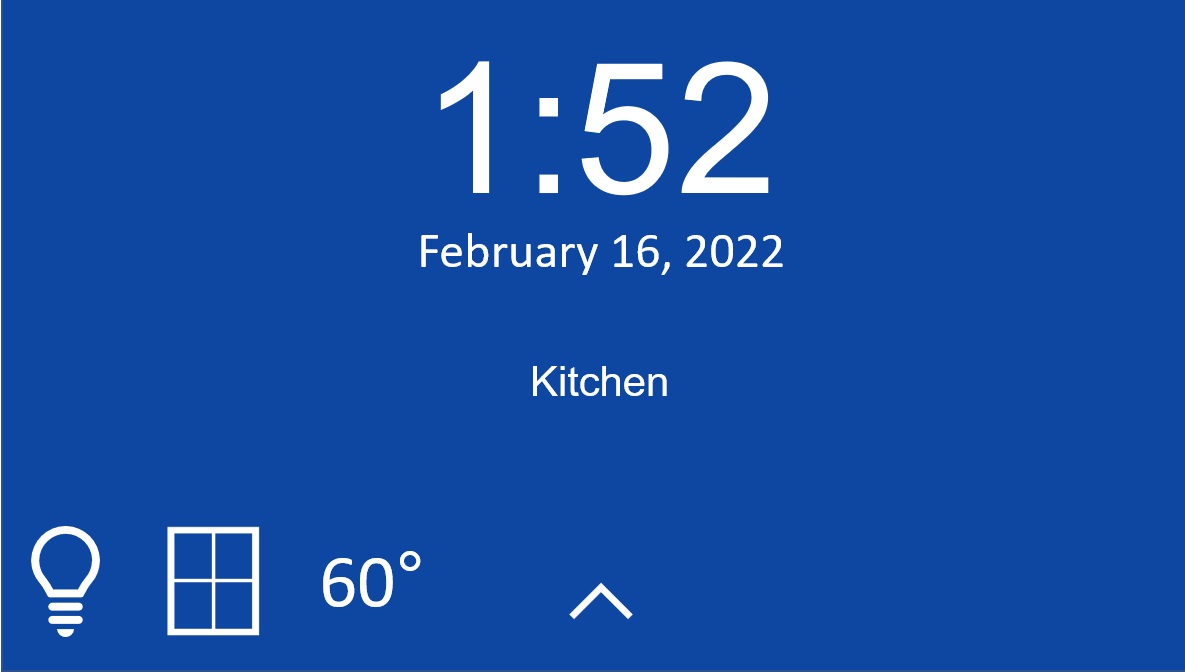
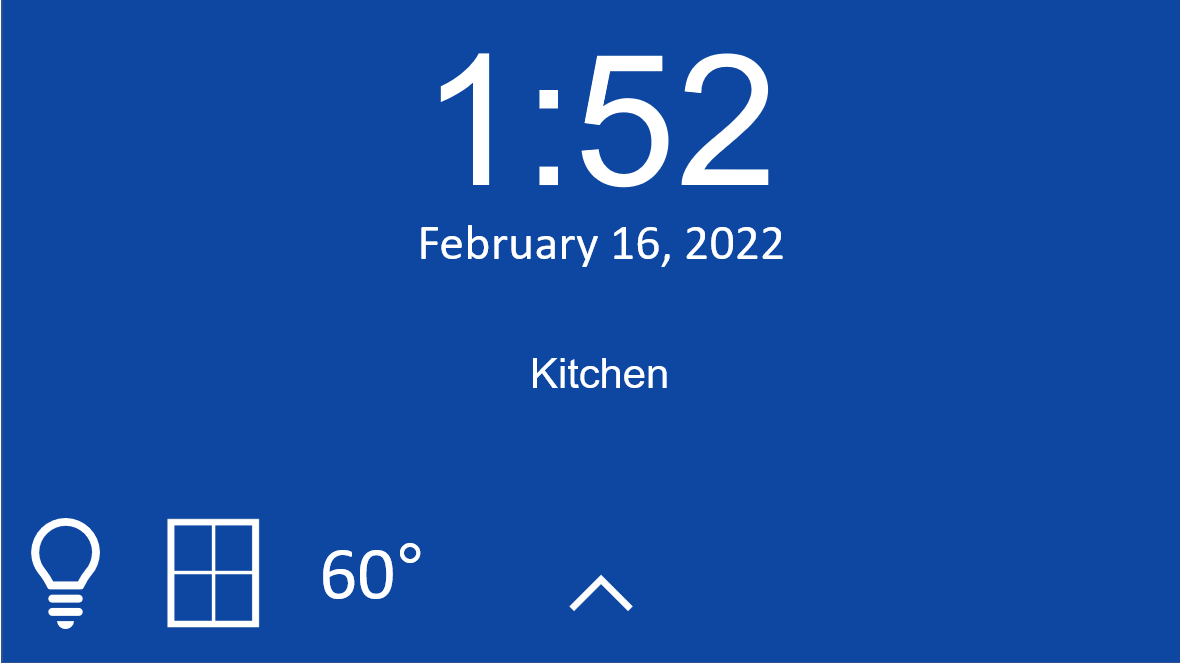
Final Release #2

diff --git a/app/view3/view3.html b/app/view3/view3.html
@@ -1,65 +1,90 @@
 
 <body>
+<div class="height-fix"></div>
 
-<h1>Human Computer Interaction Prototypes</h2>
-<p>Note: These were made before I learned Figma. By the time summer starts I will have learned Figma.These prototypes are made in powerpoint.</p>
+<h1>High Fidelity Human Computer Interaction Prototypes</h2>
+<p>Note: These were made before I learned Figma. By the time summer starts I will have learned Figma. These prototypes are made in powerpoint.</p>
 <h2> Smart Home System</h2>
 <div class = "gallery-items">
-    <div class="responsive">
+    <div class="responsive-2">
         <div class="gallery">
-            <a target="_blank" href="Images\Prototypes\SmartHome RestingScreen.png">
-                <img src="Images\Prototypes\SmartHome RestingScreen.png" alt="Cinque Terre" width="600" height="400">
+            <a target="_blank" href="Images\Prototypes\SmartHome RestingScreen-2.png">
+                <img src="Images\Prototypes\SmartHome RestingScreen-2.png" alt="Cinque Terre" width="600" height="400">
             </a>
             <div class="desc">Resting Screen</div>
         </div>
     </div>
-    <div class="responsive">
+    <div class="responsive-2">
         <div class="gallery">
             <a target="_blank" href="Images\Prototypes\SmartHome HomeScreen.png">
                 <img src="Images\Prototypes\SmartHome HomeScreen.png" alt="Cinque Terre" width="600" height="400">
             </a>
             <div class="desc">Home Screen</div>
         </div>
-    </div>    <div class="responsive">
+    </div>   
+    <div class="responsive-2">
         <div class="gallery">
             <a target="_blank" href="Images\Prototypes\SmartHome EditScreen.png">
                 <img src="Images\Prototypes\SmartHome EditScreen.png" alt="Cinque Terre" width="600" height="400">
             </a>
             <div class="desc">Edit Screen</div>
         </div>
-    </div>    <div class="responsive">
+        
+    </div> 
+    <div class="responsive-2">
         <div class="gallery">
-            <a target="_blank" href="Images\Prototypes\SmartHome RestingScreen.png">
-                <img src="Images\Prototypes\SmartHome RestingScreen.png" alt="Cinque Terre" width="600" height="400">
+            <a target="_blank" href="Images\Prototypes\Options-2.png">
+                <img src="Images\Prototypes\Options-2.png" alt="Cinque Terre" width="600" height="400">
             </a>
-            <div class="desc">Resting Screen</div>
+            <div class="desc">Home Settings and Mode Menu</div>
         </div>
-    </div>    <div class="responsive">
+    </div>
+   
+    <div class="responsive-2">
         <div class="gallery">
             <a target="_blank" href="Images\Prototypes\SmartHome RoutinesAll.png">
                 <img src="Images\Prototypes\SmartHome RoutinesAll.png" alt="Cinque Terre" width="600" height="400">
             </a>
             <div class="desc">View Routines on a Calender</div>
         </div>
-    </div>    <div class="responsive">
+    </div> 
+
+    <div class="responsive-2">
         <div class="gallery">
             <a target="_blank" href="Images\Prototypes\SmartHome AddRoutines.png">
                 <img src="Images\Prototypes\SmartHome AddRoutines.png" alt="Cinque Terre" width="600" height="400">
             </a>
             <div class="desc">Add/Edit Routines</div>
         </div>
-    </div>    <div class="responsive">
+    </div>    
+
+
+
+    <div class="responsive-2">
         <div class="gallery">
-            <a target="_blank" href="Images\Prototypes\SmartHome RestingScreen.png">
-                <img src="Images\Prototypes\SmartHome RestingScreen.png" alt="Cinque Terre" width="600" height="400">
+            <a target="_blank" href="Images\Prototypes\SmartHome KitchenRoutines.png">
+                <img src="Images\Prototypes\SmartHome KitchenRoutines.png" alt="Cinque Terre" width="600" height="400">
             </a>
-            <div class="desc">Resting Screen</div>
+            <div class="desc">Kitchen Routines on a Calender</div>
         </div>
     </div>
+    <div class="responsive-2">
+        <div class="gallery">
+            <a target="_blank" href="Images\Prototypes\SmartHome KitchenSettings.png">
+                <img src="Images\Prototypes\SmartHome KitchenSettings.png" alt="Cinque Terre" width="600" height="400">
+            </a>
+            <div class="desc">Add/Edit Kitchen Routines</div>
+        </div>
+    </div>    
+
 </div>
 
+
+
+
+
 <div class="clearfix"></div>
-<p>This is an application that will allow you to control your home from a screen on the wall. The Home Screen takes inspiration from a subway map, taking a complex home layout and rendering it as a graph.</p>
+<p>This is an application that will allow you to control your home from a screen on the wall. The Home Screen takes inspiration from a subway map, taking a complex home layout and rendering it as a graph.The lines on the view routines window's can also be dragged</p>
 
 <h2> Smart Thermostat</h2>
 
@@ -70,7 +95,16 @@
             <a target="_blank" href="Images\Prototypes\Thermostat1.png">
                 <img src="Images\Prototypes\Thermostat1.png" alt="Cinque Terre" width="600" height="400">
             </a>
-            <div class="desc">Resting Screen</div>
+            <div class="desc">Set Temperature/Home</div>
+        </div>
+    </div>
+
+    <div class="responsive">
+        <div class="gallery">
+            <a target="_blank" href="Images\Prototypes\Thermostat1.5.png">
+                <img src="Images\Prototypes\Thermostat1.5.png" alt="Cinque Terre" width="600" height="400">
+            </a>
+            <div class="desc">Settings Menu</div>
         </div>
     </div>
 
@@ -79,7 +113,7 @@
             <a target="_blank" href="Images\Prototypes\Thermostat2.png">
                 <img src="Images\Prototypes\Thermostat2.png" alt="Cinque Terre" width="600" height="400">
             </a>
-            <div class="desc">Resting Screen</div>
+            <div class="desc">Hold/Keep temperature constant</div>
         </div>
     </div>
 
@@ -87,5 +121,6 @@
 
 
 </div>
-<p>This app allows you too control a thermostat from your phone.</p>
+<div class="clearfix"></div>
+<p>This app allows you to control a thermostat from your phone.</p>
 </body>

diff --git a/app/view4/view4.html b/app/view4/view4.html
@@ -1,4 +1,5 @@
 <body>
+<div class="height-fix"></div>
 <h1>WA State Photography Competition Submissions </h1>
 
 <div class = "gallery-items">
@@ -41,18 +42,5 @@
 </div>
 
 <div class="clearfix"></div>
-<p>These are the top photos from the Washington State Photography Competition and are edited in Photoshop.</p>
 
-<h1>Website Info</h1>
-<p>This website is made using Angular which involves HTML, CSS and Javascript.It is my first angular website!</p>
-<h1>Planned Features (3/6/22)</h1>
-<p>-Converting the Website to Angular from AngularJS</p>
-<p>-Reconstructing the website out of Material Design Angular Components</p>
-<p>-Rename the subpages from just view</p>
-<p>-Add a favicon</p>
-<p>-Adding a Admin Panel with Website Statistics</p>
-<p>-Adding a dynamic feedback form</p>
-<h5>Minecraft Shader Credits: Sonic Ether's Incredible Shaders</h5>
-
-<script src="view2/view2.js"></script>
 </body>

diff --git a/app/view2/view2.html b/app/view2/view2.html
@@ -1,6 +1,6 @@
 
 <body>
-
+  <div class="height-fix"></div>
   <h1>Top Sights</h1>
 <div class = "gallery-items">
   <div class="responsive">
@@ -43,6 +43,7 @@
 <div style="padding:6px;">
 
   <p>Five years in the making and still under construction, Talem is a fully-fledged city. Equivalent in size to roughly 10 New York City sized blocks, or 1223 Minecraft blocks/meters^2. It has everything from housing and restaurants to government buildings, schools and even a metro system that is functional with Minecraft mechanics. Some buildings are designed by me while others are modeled after existing and demolished buildings. All buildings are planned to have interiors.</p>
+  <h5>Minecraft Shader Credits: Sonic Ether's Incredible Shaders</h5>
 </body>
 
 

diff --git a/app/index.html b/app/index.html
@@ -26,6 +26,7 @@
   <ul>
     <li ><a class="active" href="#!/view1">Home</a></li>
     <li ><a href="#!/view3">User Interface Prototypes</a></li>
+    <li ><a href="#!/view5">Website Info</a></li>
     <li ><a href="#!/view2">Minecraft City</a></li>
     <li ><a href="#!/view4">Other Work</a></li>
   </ul>
@@ -52,6 +53,7 @@
   <script src="view2/view2.js"></script>
   <script src="view3/view3.js"></script>
   <script src="view4/view4.js"></script>
+  <script src="view5/view5.js"></script>
   <script src="core/version/version.js"></script>
   <script src="core/version/version-directive.js"></script>
   <script src="core/version/interpolate-filter.js"></script>

diff --git a/app/view5/view5.html b/app/view5/view5.html
@@ -1,0 +1,15 @@
+<body>
+<div class="height-fix"></div>
+<h1>Website Info</h1>
+<p>This website is made using AngularJS which involves HTML, CSS and Javascript.</p>
+<h1>Planned Features (3/6/22)</h1>
+<p>-Converting the Website to Angular from AngularJS.</p>
+<p>-Reconstructing the website out of Material Design Angular Components.</p>
+<p>-Rename the pages from just view.</p>
+<p>-Add a favicon.</p>
+<p>-Adding a Admin Panel with Website Statistics.</p>
+<p>-Adding a dynamic feedback form.</p>
+
+
+<div class="clearfix"></div>
+</body>

diff --git a/app/index-async.html b/app/index-async.html
@@ -34,7 +34,8 @@
       'view1/view1.js',
       'view2/view2.js',
       'view3/view3.js',
-      'view3/view4.js',
+      'view4/view4.js',
+      'view5/view5.js',
       'core/version/version.js',
       'core/version/version-directive.js',
       'core/version/interpolate-filter.js'
@@ -52,6 +53,7 @@
     <li><a href="#!/view2">view2</a></li>
     <li><a href="#!/view3">view3</a></li>
     <li><a href="#!/view4">view4</a></li>
+    <li><a href="#!/view5">view4</a></li>
   </ul>
 
   <div ng-view></div>

diff --git a/app/app.css b/app/app.css
@@ -93,6 +93,33 @@ div.desc {
   }
 }
 
+
+
+.responsive-2 {
+  padding: 0 6px;
+  float: left;
+  width: 24.99999%;
+}
+
+@media only screen and (max-width: 700px) {
+  .responsive-2 {
+    width: 100%;
+  }
+}
+
+.height-fix{
+
+}
+
+@media only screen and (max-width: 652px) {
+  .height-fix {
+  
+  width: 50px;
+  height: 50px;
+  }
+}
+
+
 .clearfix:after {
   content: "";
   display: table;

diff --git a/app/view5/view5.spec.js b/app/view5/view5.spec.js
@@ -1,0 +1,16 @@
+'use strict';
+
+describe('myApp.view5 module', function() {
+
+  beforeEach(module('myApp.view5'));
+
+  describe('view5 controller', function(){
+
+    it('should ....', inject(function($controller) {
+      //spec body
+      var view5Ctrl = $controller('View5Ctrl');
+      expect(view5Ctrl).toBeDefined();
+    }));
+
+  });
+});

diff --git a/app/view5/view5.js b/app/view5/view5.js
@@ -1,0 +1,14 @@
+'use strict';
+
+angular.module('myApp.view5', ['ngRoute'])
+
+.config(['$routeProvider', function($routeProvider) {
+  $routeProvider.when('/view5', {
+    templateUrl: 'view5/view5.html',
+    controller: 'View5Ctrl'
+  });
+}])
+
+.controller('View5Ctrl', [function() {
+
+}]);

diff --git a/app/app.js b/app/app.js
@@ -7,6 +7,7 @@ angular.module('myApp', [
   'myApp.view2',
   'myApp.view3',
   'myApp.view4',
+  'myApp.view5',
   'myApp.version'
 ]).
 config(['$locationProvider', '$routeProvider', function($locationProvider, $routeProvider) {

diff --git a/app/view1/view1.html b/app/view1/view1.html
@@ -1,6 +1,6 @@
 
 <body>
-
+<div class="height-fix"></div>
 
 <div class="row">
     <div class="column side">
